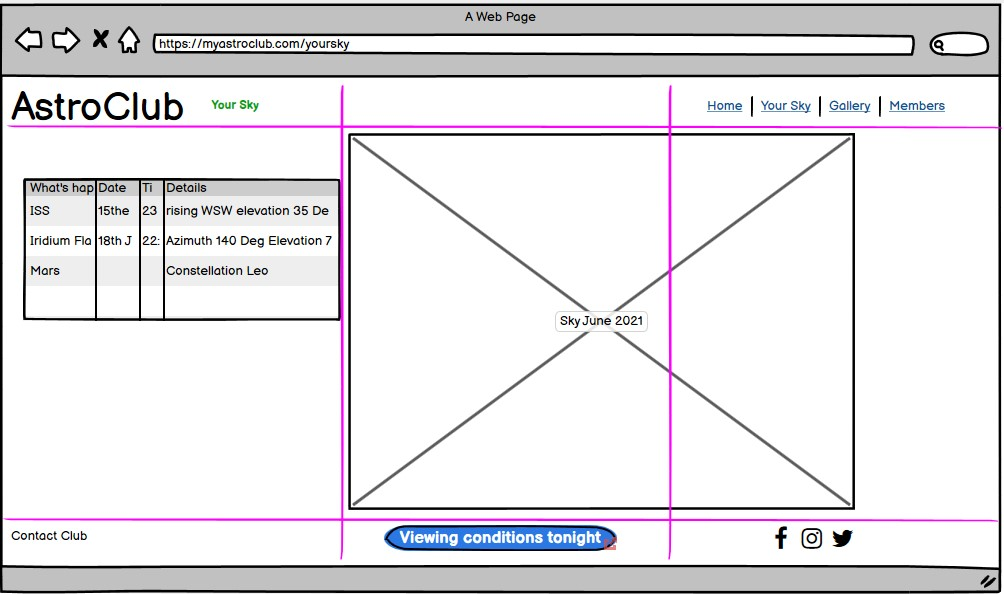
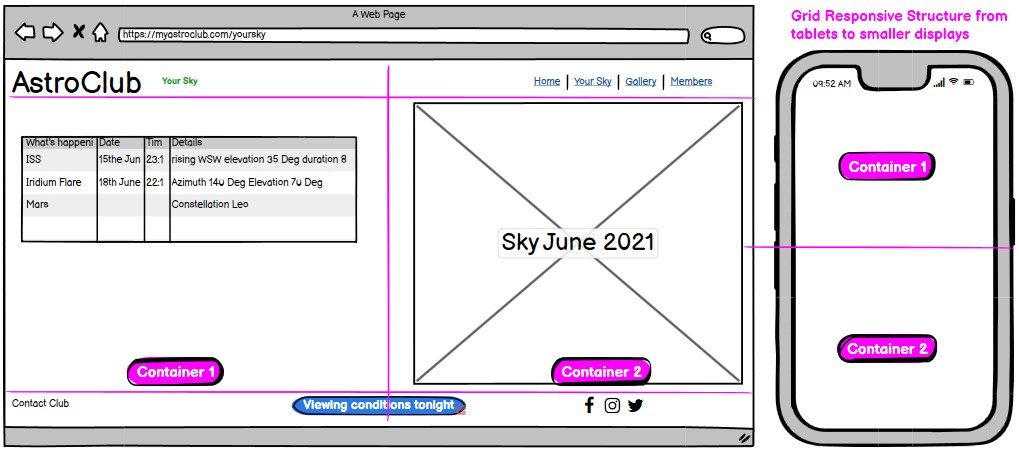
Ready to submit for MS1

Changed region(s): [[0.0, 0.0, 1.0, 1.0]]

diff --git a/README.md b/README.md
@@ -1,7 +1,7 @@
 # Astroclub Website
 As an amateur stargazer I have had the pleasure of engaging many acquaintances and sharing experiences and events about a topic that without exaggeration could be regarded as the beginning and end of all sciences. Yet for many it remains an abstract and an obscure puzzle not at all helped by the unsociable hours and the very hard to follow text-dense websites associated with this subject. This exercise will be a small attempt to rectify the latter.
 
-Astroclub is designed to be a first stage responsive website for an astronomy club based in  Dublin/ Ireland to rapidly illustrate the wow factor of astronomy, deliver some immediate use for first time and regular  visitors and be an entry point for club members and prospective registrants.
+Astroclub is designed to be a first version of a responsive website for an astronomy club based in  Dublin/ Ireland to rapidly illustrate the wow factor of astronomy, deliver some immediate use for first time and regular  visitors and be an entry point for club members and prospective registrants.
 
 ---
  
@@ -24,7 +24,7 @@ The UX process employs the 5 planes approach as follows:
 * (Not implemented - not feasible at this time) Capture locale information based on visitor IP and/or GPS to facilitate a geo context for nighttime viewing.
 ---
 ### Scope
-Scope will be defined in terms of 3 types of user - the CLUB, the member and the visitor. This to be done in the context of those objectives that are 
+Scope will be defined in terms of 3 types of user - the CLUB, the member and the visitor. Stories derived to achieve objectives are
 
 1. As an astronomy club I want to provide in impactful landing page to attract visitors and new members in North Co. Dublin 
 2. As a Visitor I want to leave a message with the club
@@ -50,7 +50,7 @@ IA/ Information architecture will comprise a mix of a simple inked set of pages 
 
 ### Skeleton
 
-The approach is use the Bootstrap Framework leverage its grid structure by dividing site pages into 3 columns (or 3 groups of 4 columns) to allow for a clean responsive design as one moves from a large screen down to mobile phone. Headers and footers will be consistent across all pages and will provide the website navigation elements as well as links to social media and ability to check viewing conditions and leave a message. The following 4 wireframes give the expanded large screen layout
+The approach is use the Bootstrap Framework leverage its grid structure by dividing site pages into 2 or 3 containers or grid columns to allow for a clean responsive design as one moves from a large screen down to mobile phone. Headers and footers will be consistent across all pages and will provide the website navigation elements as well as links to social media and ability to check viewing conditions and leave a message. The following 4 wireframes give the expanded large screen layout.  Pink lines indicate the grid/ container structure with a view of how this flows to smaller displays. 
 
 ## astroclub|home <img src="/assets/project/AstroHome.jpg">
 ## astroclub|yoursky <img src="/assets/project/AstroYourSky.jpg">
@@ -66,15 +66,18 @@ As one would expect with this subject matter, the site will be dark with many ex
 ## Features
  
 ### Existing Features
-- Why Astronomy? - Pictorial carosel illustrating the wow factor
-- Clear Outside? - allow user to check viewing conditions - it's a link to the Clear Outside website with geo coordinates supplied for Dublin.
-- Events for the month - provide table of key highlights
-- Skymap - Show current Skymap with approximate locations (where relevant) of events
-- Gallery - show latest set of astrophotography contributions
-- Member Login/ registration
-- Leave a message
+- Why Astronomy? - Pictorial carosel illustrating the wow factor See [home page code](index.html)
+- Clear Outside? - allow user to check viewing conditions - it's a link to the Clear Outside website with geo coordinates supplied for Dublin. [Clear Outside](https://clearoutside.com/)
+- Your Sky [Code here](yoursky.html)
+    - Events for the month - provide table of key highlights
+    - Skymap - Show current Skymap with approximate locations (where relevant) of events
+(and yes, the west is correctly shown to be on the right)
 
-Reference the specific project files that implement them?
+- Gallery - shows latest set of astrophotography contributions. [Code Here](gallery.html)
+- Members Page - [code here](members.html)
+    - Member Login
+    - Registration
+
 
 ### Features to Implement in future versions
 - Allow site to track your GPS so it can give you specific information relevant to your location - e.g viewing conditions, skymap and events at your precise time/locale.
@@ -89,7 +92,11 @@ Reference the specific project files that implement them?
 
 - HTML 5 for main markup
 - - used a HTML DOM to effect CSS changes eg
-```<script>
+```
+ <button onclick="regForm()" class="btn btn-secondary">Want to be a member&#63;</button>
+-
+-
+<script>
         function regForm() {
             document.getElementById("registration").style.display = "block";
             document.getElementById("registration").style.background = "rgba(180, 180, 180, .8)";
@@ -188,31 +195,36 @@ NB : still in "Members" Page
 |On submit with correct inputs|form dissappears|ok|
 
 ## Deployment
-Entire code and assets was pushed from GITPOD to the GITHUB repository at https://github.com/philmurtagh101/my-MS1-astroclub-site
-Website was published from within the GITHUB repository to https://philmurtagh101.github.io/my-MS1-astroclub-site/index.html
+It is assumed that the entire project code and assets was pushed from GITPOD to the GITHUB repository at [My Repo](https://github.com/philmurtagh101/my-MS1-astroclub-site) 
+
+Steps to enable site Deployment
+1. Within [My Repo](https://github.com/philmurtagh101/my-MS1-astroclub-site) select settings
+2. Scroll down to "GitHub Pages" and select "Check it out here!"
+3. Under "Source" select branch "Branch:master" and select folder "/(root)"
+4. Click on "Save" button
+
+Website wwill publish from within the GITHUB repository to [AstroClub](https://philmurtagh101.github.io/my-MS1-astroclub-site/index.html) within 5-10 minutes.
 
 
 ## Credits 
 
 ### Content
-I did not copy any site content knowingly.  That said, many years as an amateur astronomer I am sure I have been influenced by the style and content of many sites which number in their 100s if not thousands.
-
-What became evident as I researched many of the sites was features that could be leveraged to enhance one's own site. One trivial example being
-https://clearoutside.com/ which would allow one to add latitude and longitude to customise for your own area.  Other sites offer skymaps that can give all the data to display your own dynamic map on your site (knowledge of using APIs and JS needed)
+What became evident as I researched many of the sites was the many features that could be leveraged to enhance one's own site. One trivial example being
+[Clear Outside](https://clearoutside.com/) which would allow one to add latitude and longitude to customise for your own area.  Other sites offer skymaps that can give all the data to display your own dynamic map on your site (knowledge of using APIs and JS needed)
 
 
 ### Media
 Images came from screen copy or image download from the following sites
 
-Sunspot Corona https://en.wikipedia.org/wiki/Sunspot
-NGC6543 Catseye Nebula https://en.wikipedia.org/wiki/Cat%27s_Eye_Nebula
-M31 Andromeda Galaxy https://en.wikipedia.org/wiki/Andromeda_Galaxy
-M27 Dumbell Nebula https://en.wikipedia.org/wiki/Dumbbell_Nebula
-Planet Jupiter https://en.wikipedia.org/wiki/Jupiter
-Great Red Spot https://en.wikipedia.org/wiki/Great_Red_Spot
-NGC 869 and NGC 884 Double Cluster https://en.wikipedia.org/wiki/Double_Cluster
+- Sunspot Corona [wiki sunspot](https://en.wikipedia.org/wiki/Sunspot)
+- NGC6543 Catseye [wiki catseye nebula](https://en.wikipedia.org/wiki/Cat%27s_Eye_Nebula)
+- M31 Andromeda Galaxy [wiki andromeda](https://en.wikipedia.org/wiki/Andromeda_Galaxy)
+- M27 Dumbell Nebula [wiki dumbell nebula](https://en.wikipedia.org/wiki/Dumbbell_Nebula)
+- Planet Jupiter [wiki jupiter](https://en.wikipedia.org/wiki/Jupiter)
+- Great Red Spot [wiki red spot](https://en.wikipedia.org/wiki/Great_Red_Spot)
+- NGC 869 and NGC 884 Double Cluster [wiki double cluster](https://en.wikipedia.org/wiki/Double_Cluster)
 
-Sky Map came from https://in-the-sky.org/skymap2.php
+- The Sky Map came from [In the Sky](https://in-the-sky.org/skymap2.php)
 
 ### Acknowledgements
 - To my Mentor Antonija Simic for suggesting the carousel to use for the home page and bringing me on a whirlwind tour of Bootstrap and some testing methods.
